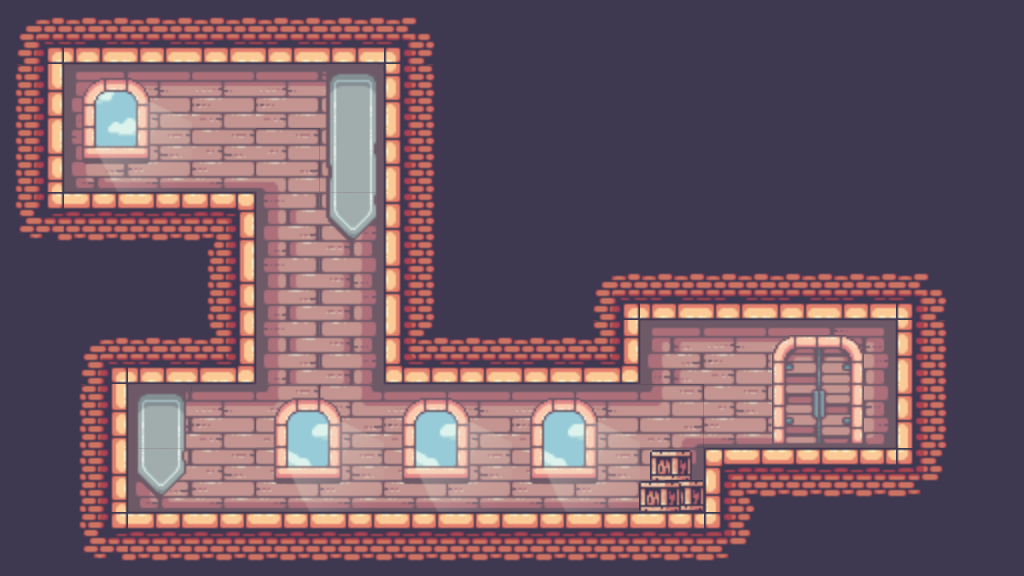
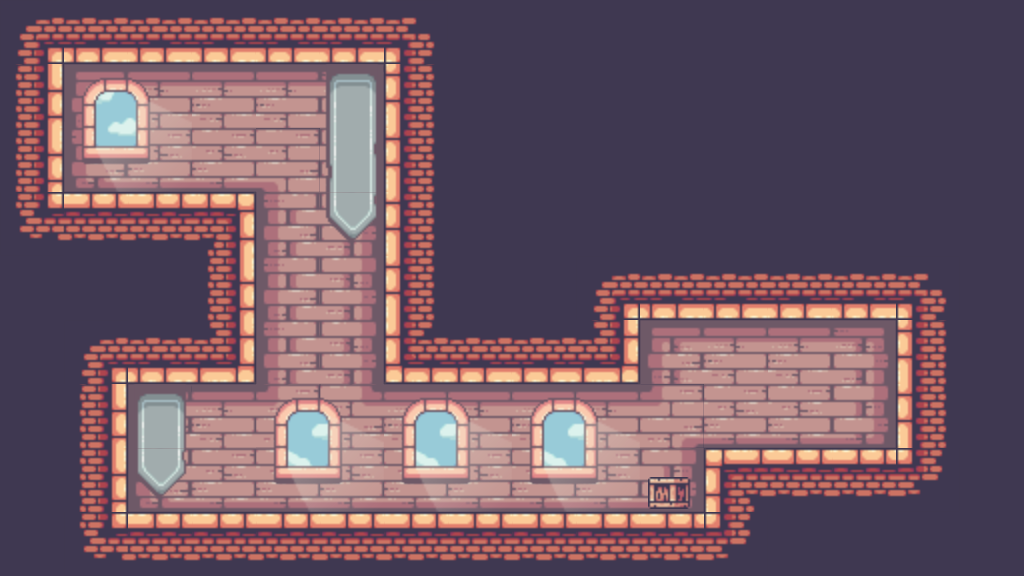
change levels

Changed region(s): [[0.75, 0.5625, 0.8438, 0.7812], [0.625, 0.7812, 0.6875, 0.9062]]

diff --git a/index.js b/index.js
@@ -4,19 +4,11 @@ const c = canvas.getContext("2d");
 canvas.width = 64 * 16;
 canvas.height = 64 * 9;
 
-const parsedCollisions = collisionsLevel1.parse2D();
-const collisionBlocks = parsedCollisions.createObjectsFrom2D();
-
-const backgroundLevel1 = new Sprite({
-  position: {
-    x: 0,
-    y: 0,
-  },
-  imageSrc: `./img/backgroundLevel1.png`,
-});
-
+let parsedCollisions;
+let collisionBlocks;
+let background;
+let doors;
 const player = new Player({
-  collisionBlocks,
   imageSrc: "./img/king/idle.png",
   frameRate: 11,
   animations: {
@@ -51,24 +43,131 @@ const player = new Player({
       imageSrc: "./img/king/enterDoor.png",
       onComplete: () => {
         console.log("completed animation");
+
+        gsap.to(overlay, {
+          opacity: 1,
+          onComplete: () => {
+            level++;
+            if (level === 4) level = 1;
+            levels[level].init();
+            player.switchSprite("idleRight");
+            player.preventInput = false;
+            gsap.to(overlay, {
+              opacity: 0,
+            });
+          },
+        });
       },
     },
   },
 });
 
-const doors = [
-  new Sprite({
-    position: {
-      x: 767,
-      y: 270,
+let level = 1;
+let levels = {
+  1: {
+    init: () => {
+      parsedCollisions = collisionsLevel1.parse2D();
+      collisionBlocks = parsedCollisions.createObjectsFrom2D();
+      player.collisionBlocks = collisionBlocks;
+
+      if (player.currentAnimation) {
+        player.currentAnimation.isActive = false;
+      }
+
+      background = new Sprite({
+        position: {
+          x: 0,
+          y: 0,
+        },
+        imageSrc: `./img/backgroundLevel1.png`,
+      });
+
+      doors = [
+        new Sprite({
+          position: {
+            x: 767,
+            y: 270,
+          },
+          imageSrc: "./img/doorOpen.png",
+          frameRate: 5,
+          frameBuffer: 5,
+          loop: false,
+          autoplay: false,
+        }),
+      ];
     },
-    imageSrc: "./img/doorOpen.png",
-    frameRate: 5,
-    frameBuffer: 5,
-    loop: false,
-    autoplay: false,
-  }),
-];
+  },
+  2: {
+    init: () => {
+      parsedCollisions = collisionsLevel2.parse2D();
+      collisionBlocks = parsedCollisions.createObjectsFrom2D();
+      player.collisionBlocks = collisionBlocks;
+      player.position.x = 96;
+      player.position.y = 140;
+
+      if (player.currentAnimation) {
+        player.currentAnimation.isActive = false;
+      }
+
+      background = new Sprite({
+        position: {
+          x: 0,
+          y: 0,
+        },
+        imageSrc: `./img/backgroundLevel2.png`,
+      });
+
+      doors = [
+        new Sprite({
+          position: {
+            x: 769,
+            y: 338,
+          },
+          imageSrc: "./img/doorOpen.png",
+          frameRate: 5,
+          frameBuffer: 5,
+          loop: false,
+          autoplay: false,
+        }),
+      ];
+    },
+  },
+  3: {
+    init: () => {
+      parsedCollisions = collisionsLevel3.parse2D();
+      collisionBlocks = parsedCollisions.createObjectsFrom2D();
+      player.collisionBlocks = collisionBlocks;
+      player.position.x = 730;
+      player.position.y = 140;
+
+      if (player.currentAnimation) {
+        player.currentAnimation.isActive = false;
+      }
+
+      background = new Sprite({
+        position: {
+          x: 0,
+          y: 0,
+        },
+        imageSrc: `./img/backgroundLevel3.png`,
+      });
+
+      doors = [
+        new Sprite({
+          position: {
+            x: 181,
+            y: 337,
+          },
+          imageSrc: "./img/doorOpen.png",
+          frameRate: 5,
+          frameBuffer: 5,
+          loop: false,
+          autoplay: false,
+        }),
+      ];
+    },
+  },
+};
 
 const keys = {
   w: {
@@ -81,12 +180,16 @@ const keys = {
     pressed: false,
   },
 };
+
+const overlay = {
+  opacity: 0,
+};
 function animated() {
   window.requestAnimationFrame(animated);
   //   c.fillStyle = "white";
   //   c.fillRect(0, 0, canvas.width, canvas.height);
 
-  backgroundLevel1.draw();
+  background.draw();
   collisionBlocks.forEach((collisionBlock) => {
     collisionBlock.draw();
   });
@@ -100,6 +203,14 @@ function animated() {
   player.handleInput(keys);
   player.draw();
   player.update();
+
+  c.save();
+  c.globalAlpha = overlay.opacity;
+  c.fillStyle = "black";
+  c.fillRect(0, 0, canvas.width, canvas.height);
+  c.restore();
 }
+
+levels[level].init();
 
 animated();

diff --git a/js/data/collisions.js b/js/data/collisions.js
@@ -7,3 +7,23 @@ const collisionsLevel1 = [
   292, 292, 292, 0, 0, 0, 0, 0, 0, 0, 0, 0, 0, 0, 0, 0, 0, 0, 0, 0, 0, 0, 0, 0,
   0, 0, 0, 0, 0, 0, 0, 0, 0, 0, 0, 0,
 ];
+
+const collisionsLevel2 = [
+  292, 292, 292, 292, 292, 292, 292, 0, 0, 0, 0, 0, 0, 0, 0, 0, 292, 0, 0, 0, 0,
+  0, 292, 0, 0, 0, 0, 0, 0, 0, 0, 0, 292, 0, 0, 0, 0, 0, 292, 0, 0, 0, 0, 0, 0,
+  0, 0, 0, 292, 292, 292, 292, 0, 0, 292, 0, 0, 0, 0, 0, 0, 0, 0, 0, 0, 0, 0,
+  292, 0, 0, 292, 0, 0, 292, 292, 292, 292, 292, 292, 0, 0, 292, 292, 292, 0, 0,
+  292, 292, 292, 292, 0, 0, 0, 0, 292, 0, 0, 292, 0, 0, 0, 0, 0, 0, 0, 0, 0, 0,
+  0, 0, 292, 0, 0, 292, 0, 0, 0, 0, 0, 0, 0, 0, 292, 292, 292, 292, 292, 0, 0,
+  292, 292, 292, 292, 292, 292, 292, 292, 292, 292, 292, 0, 0, 0, 0,
+];
+
+const collisionsLevel3 = [
+  0, 0, 0, 0, 0, 0, 0, 0, 0, 0, 0, 0, 0, 0, 0, 0, 0, 250, 250, 250, 250, 250,
+  250, 250, 250, 250, 250, 250, 250, 250, 250, 0, 0, 250, 0, 0, 0, 0, 0, 0, 0,
+  0, 0, 0, 0, 0, 250, 0, 0, 250, 0, 0, 0, 0, 0, 0, 0, 0, 0, 0, 0, 0, 250, 0, 0,
+  250, 0, 0, 0, 0, 0, 0, 0, 0, 250, 250, 250, 250, 250, 0, 0, 250, 0, 0, 0, 0,
+  0, 0, 0, 0, 0, 0, 0, 250, 0, 0, 0, 250, 250, 0, 0, 0, 0, 0, 0, 0, 0, 0, 250,
+  250, 0, 0, 0, 250, 250, 250, 250, 250, 250, 250, 250, 250, 250, 250, 250, 250,
+  0, 0, 0, 0, 0, 0, 0, 0, 0, 0, 0, 0, 0, 0, 0, 0, 0, 0,
+];

diff --git a/index.html b/index.html
@@ -5,6 +5,12 @@
 </style>
 <canvas></canvas>
 
+<script
+  src="https://cdnjs.cloudflare.com/ajax/libs/gsap/3.12.5/gsap.min.js"
+  integrity="sha512-7eHRwcbYkK4d9g/6tD/mhkf++eoTHwpNM9woBxtPUBWm67zeAfFC+HrdoE2GanKeocly/VxeLvIqwvCdk7qScg=="
+  crossorigin="anonymous"
+  referrerpolicy="no-referrer"
+></script>
 <script src="js/classes/utils.js"></script>
 <script src="js/data/collisions.js"></script>
 <script src="js/classes/CollisionBlock.js"></script>

diff --git a/js/eventListeners.js b/js/eventListeners.js
@@ -12,7 +12,6 @@ window.addEventListener("keydown", (event) => {
           player.hitBox.position.y + player.hitBox.height >= door.position.y &&
           player.hitBox.position.y <= door.position.y + door.height
         ) {
-          console.log("we are colinding");
           player.velocity.x = 0;
           player.velocity.y = 0;
           player.preventInput = true;

diff --git a/js/classes/Sprite.js b/js/classes/Sprite.js
@@ -76,7 +76,7 @@ class Sprite {
     if (this.currentAnimation?.onComplete) {
       if (
         this.currentFrame === this.frameRate - 1 &&
-        this.currentAnimation.isActive
+        !this.currentAnimation.isActive
       ) {
         this.currentAnimation.onComplete();
         this.currentAnimation.isActive = true;

diff --git a/js/classes/utils.js b/js/classes/utils.js
@@ -11,7 +11,7 @@ Array.prototype.createObjectsFrom2D = function () {
   const objects = [];
   this.forEach((row, y) => {
     row.forEach((symbol, x) => {
-      if (symbol === 292) {
+      if (symbol === 292 || symbol === 250) {
         objects.push(
           new CollisionBlock({
             position: {
